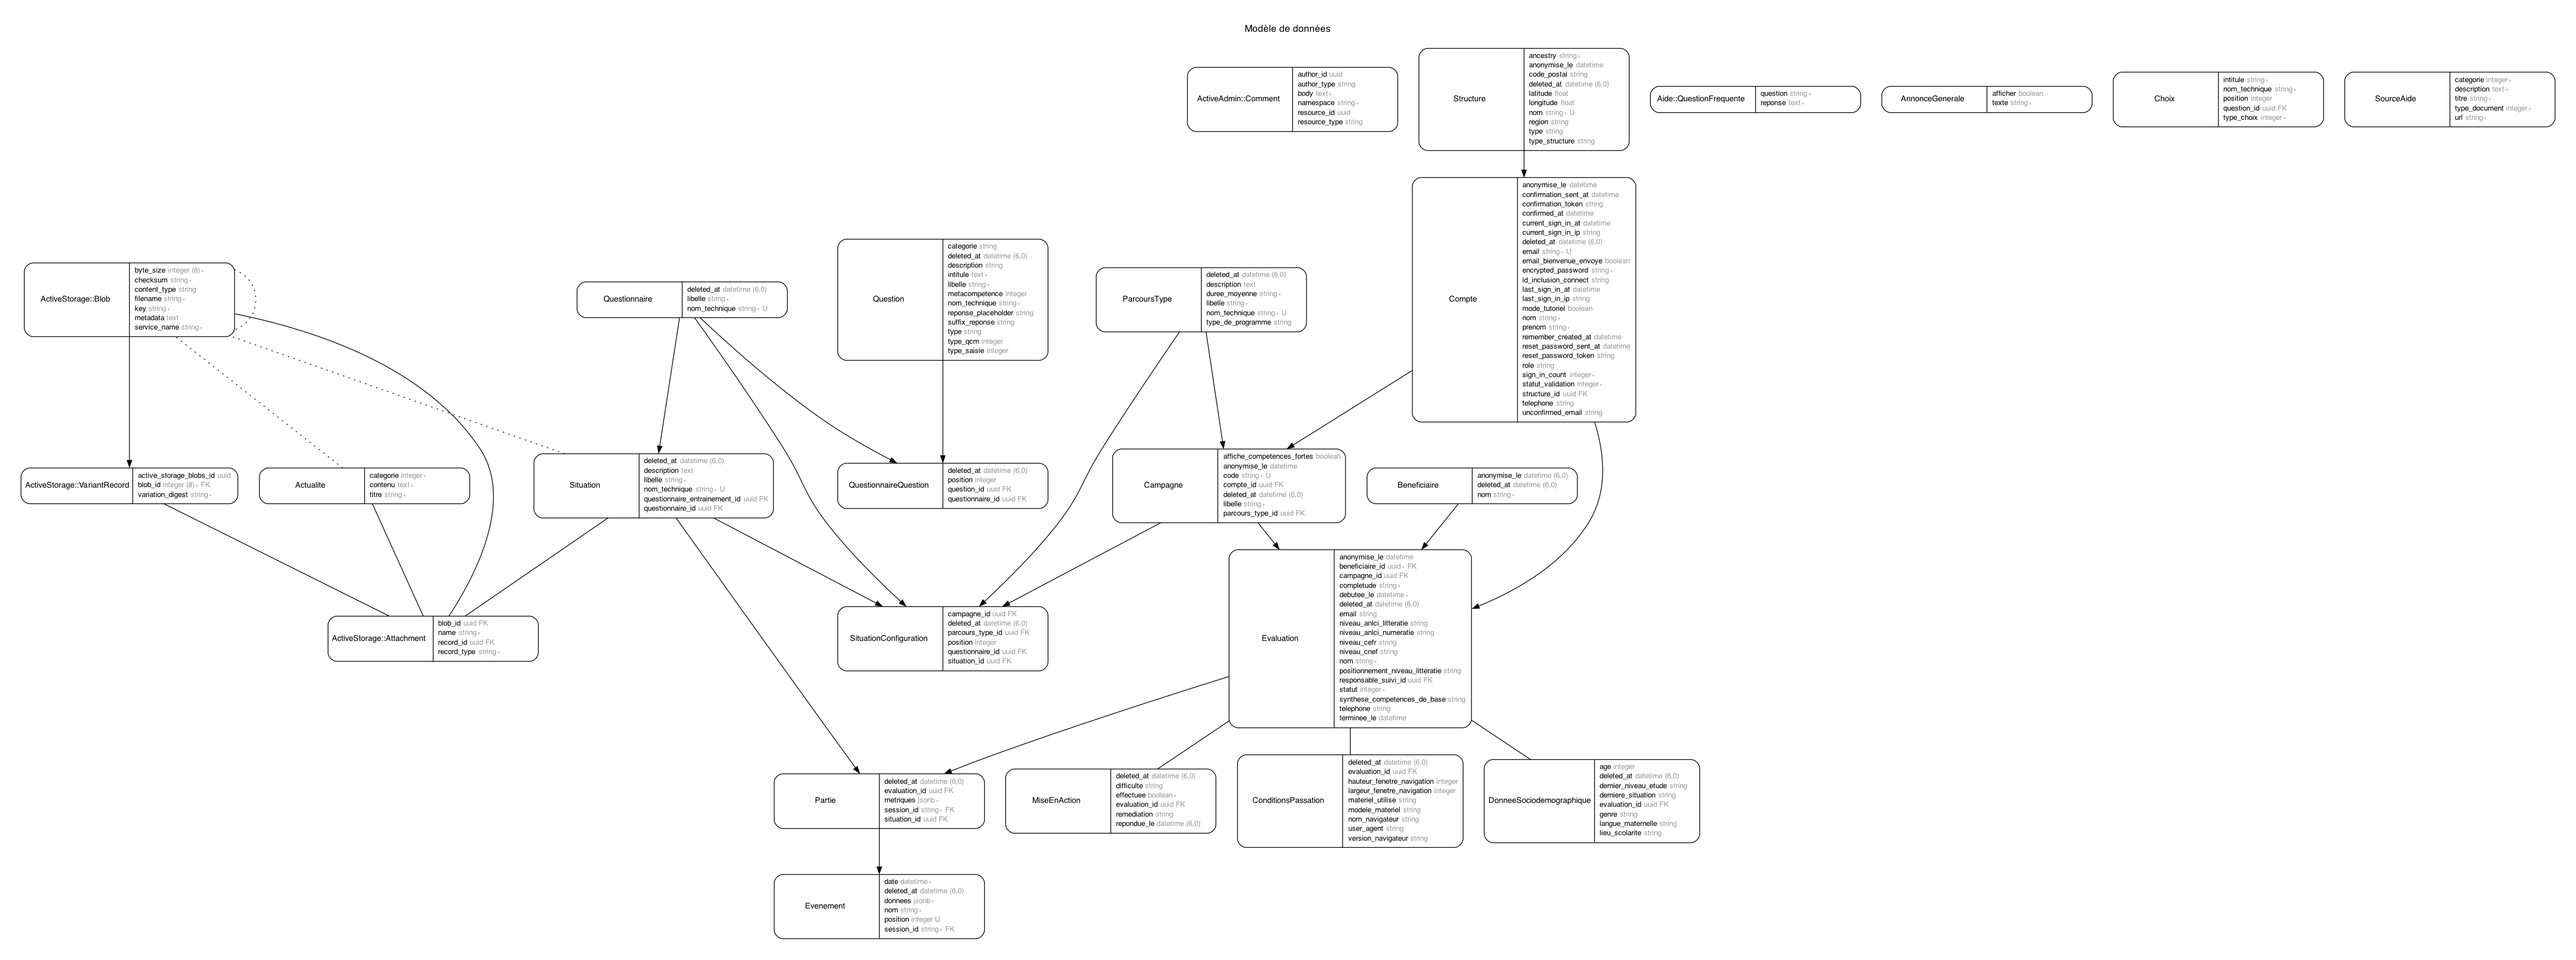
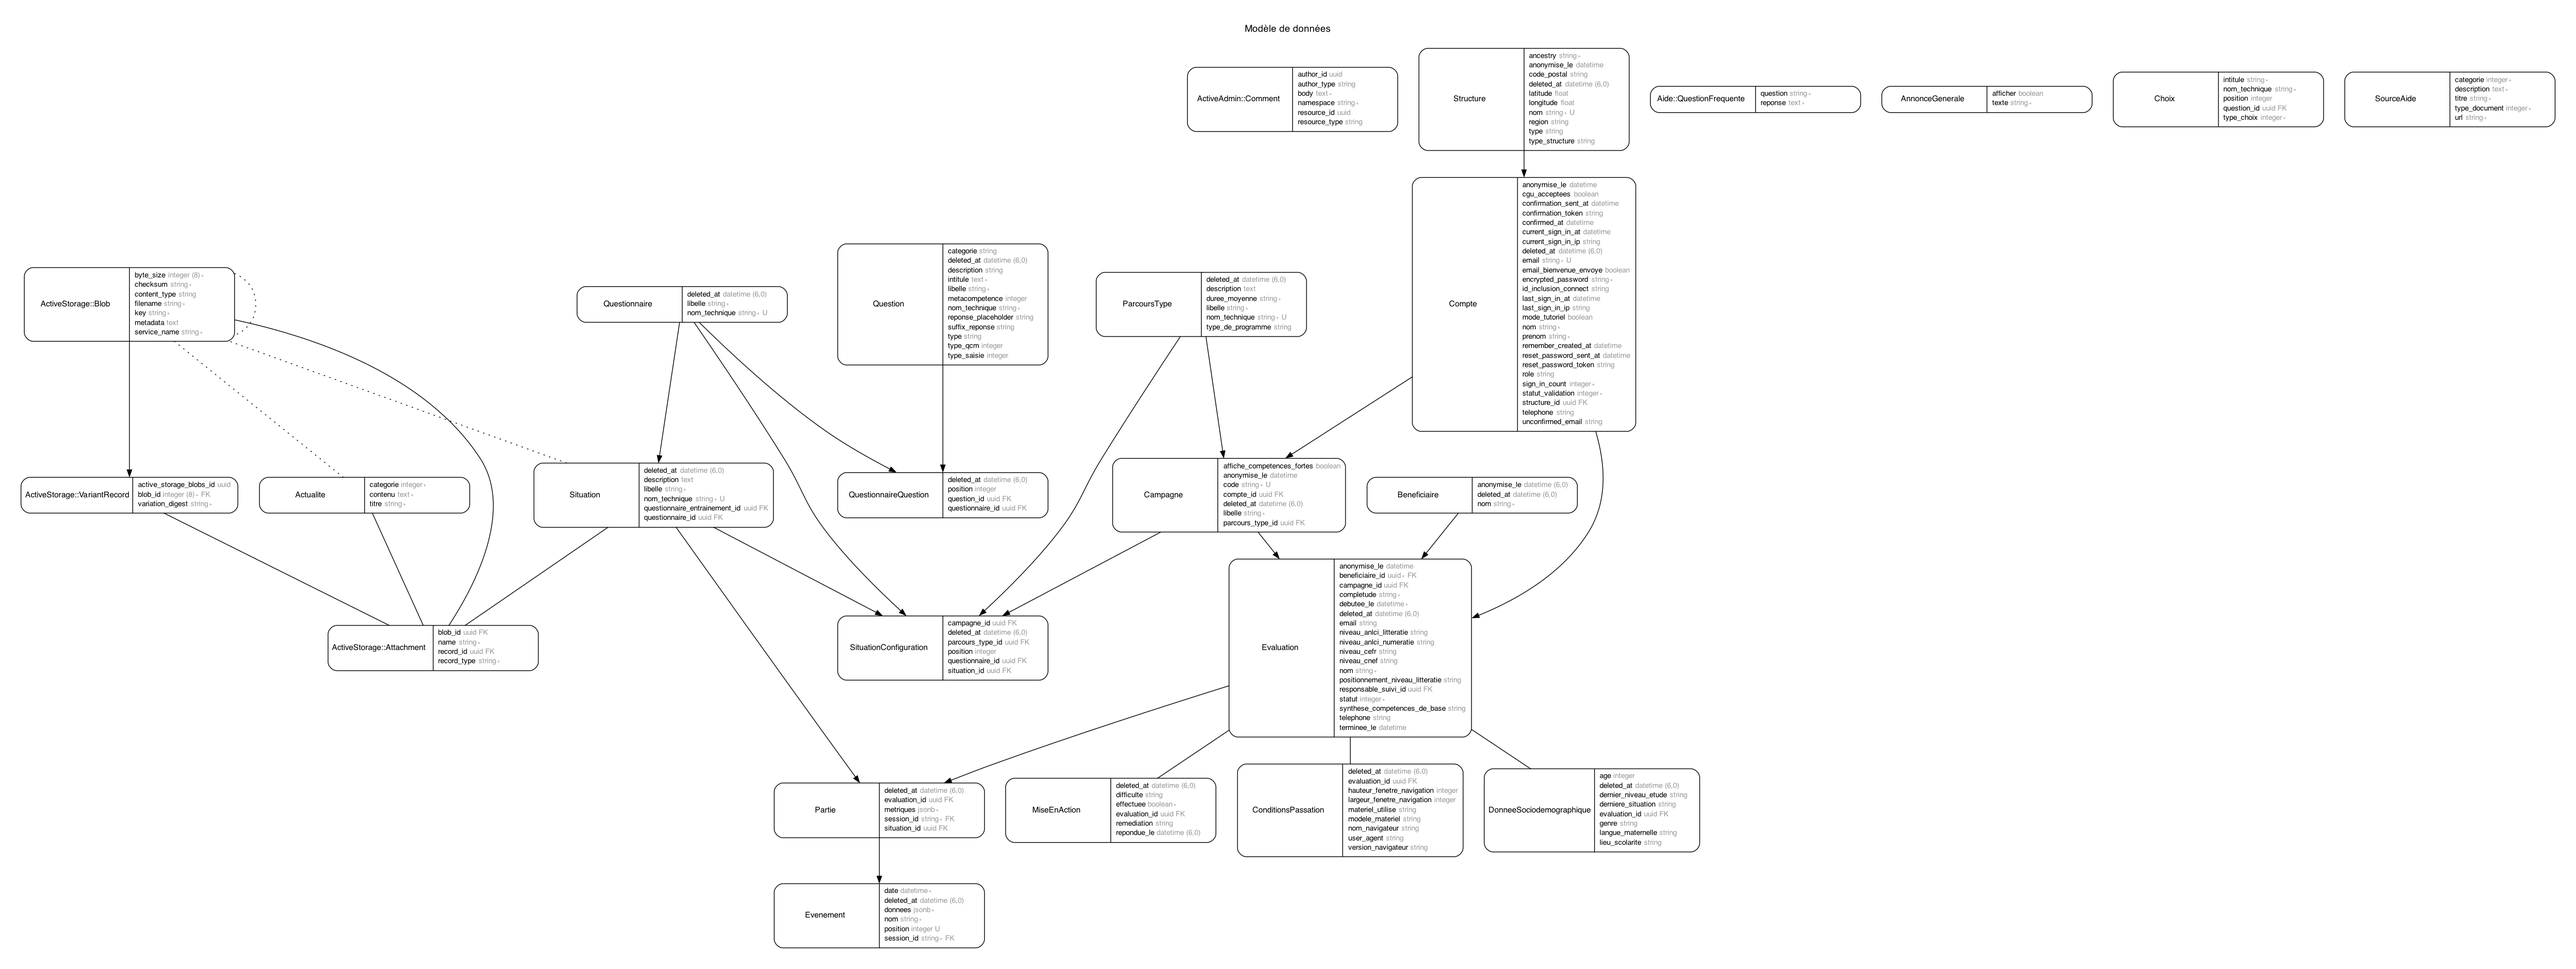
Ajout de la colonne cgu_aceptees au model Compte

diff --git a/db/schema.rb b/db/schema.rb
@@ -10,7 +10,7 @@
 #
 # It's strongly recommended that you check this file into your version control system.
 
-ActiveRecord::Schema[7.0].define(version: 2023_10_30_132154) do
+ActiveRecord::Schema[7.0].define(version: 2023_11_10_170010) do
   # These are extensions that must be enabled in order to support this database
   enable_extension "pgcrypto"
   enable_extension "plpgsql"
@@ -138,6 +138,7 @@ ActiveRecord::Schema[7.0].define(version: 2023_10_30_132154) do
     t.boolean "mode_tutoriel", default: true
     t.boolean "email_bienvenue_envoye"
     t.string "id_inclusion_connect"
+    t.boolean "cgu_acceptees"
     t.index ["confirmation_token"], name: "index_comptes_on_confirmation_token", unique: true
     t.index ["deleted_at"], name: "index_comptes_on_deleted_at"
     t.index ["email"], name: "index_comptes_on_email", unique: true, where: "(deleted_at IS NULL)"

diff --git a/db/migrate/20231110170010_ajoute_colonne_cgu_acceptes_a_compte.rb b/db/migrate/20231110170010_ajoute_colonne_cgu_acceptes_a_compte.rb
@@ -1,0 +1,5 @@
+class AjouteColonneCguAcceptesACompte < ActiveRecord::Migration[7.0]
+  def change
+    add_column :comptes, :cgu_acceptees, :boolean
+  end
+end
